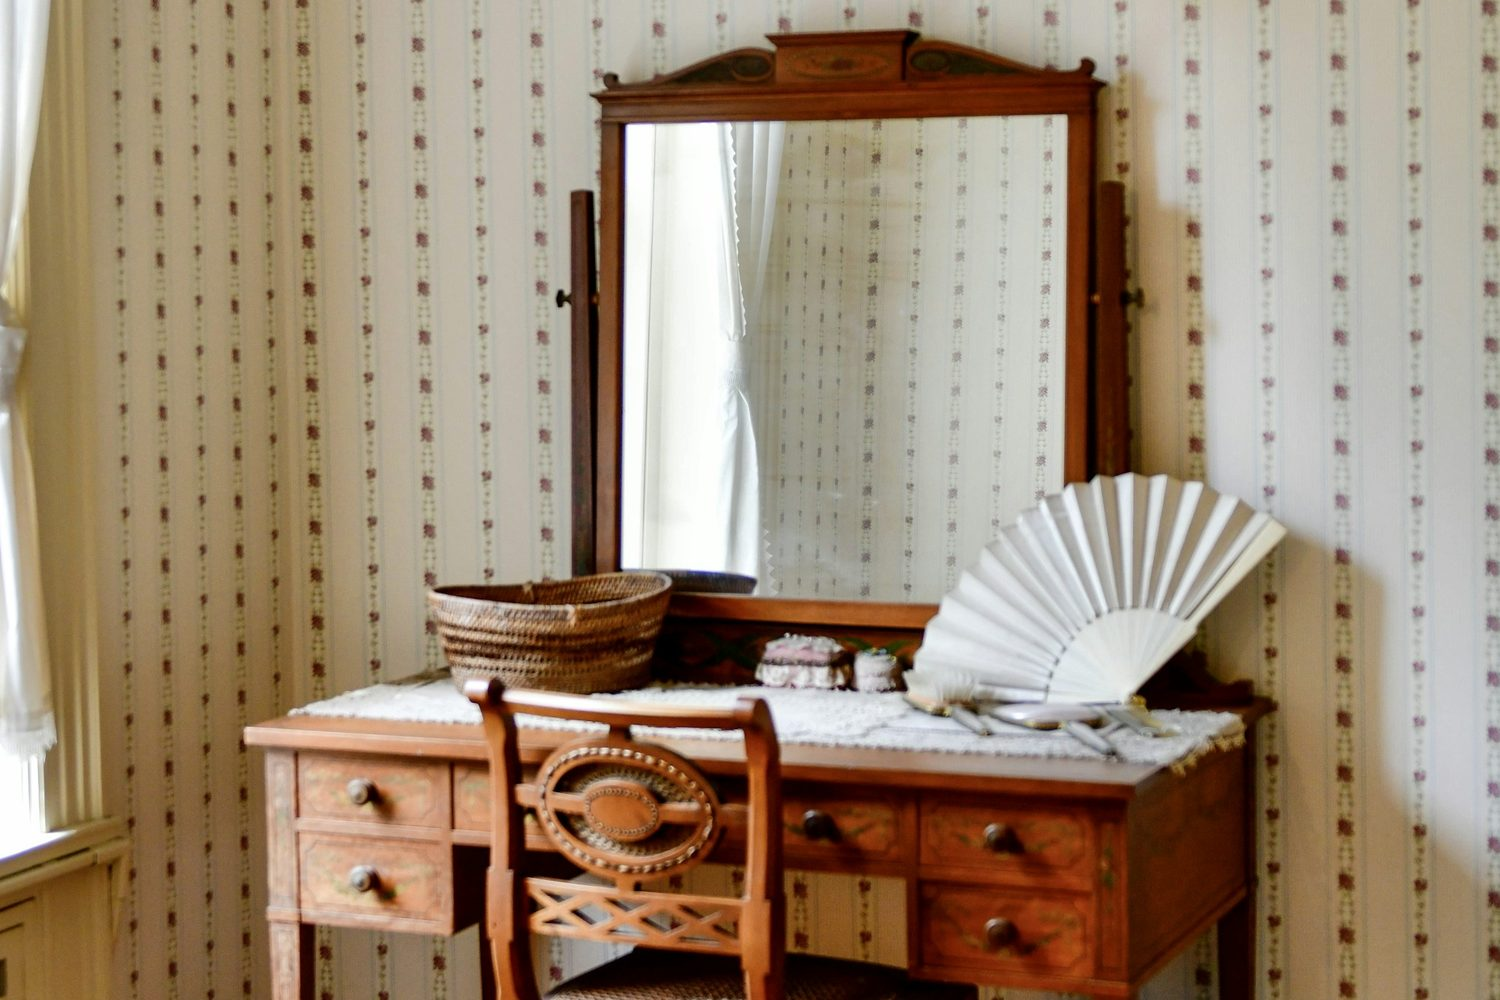
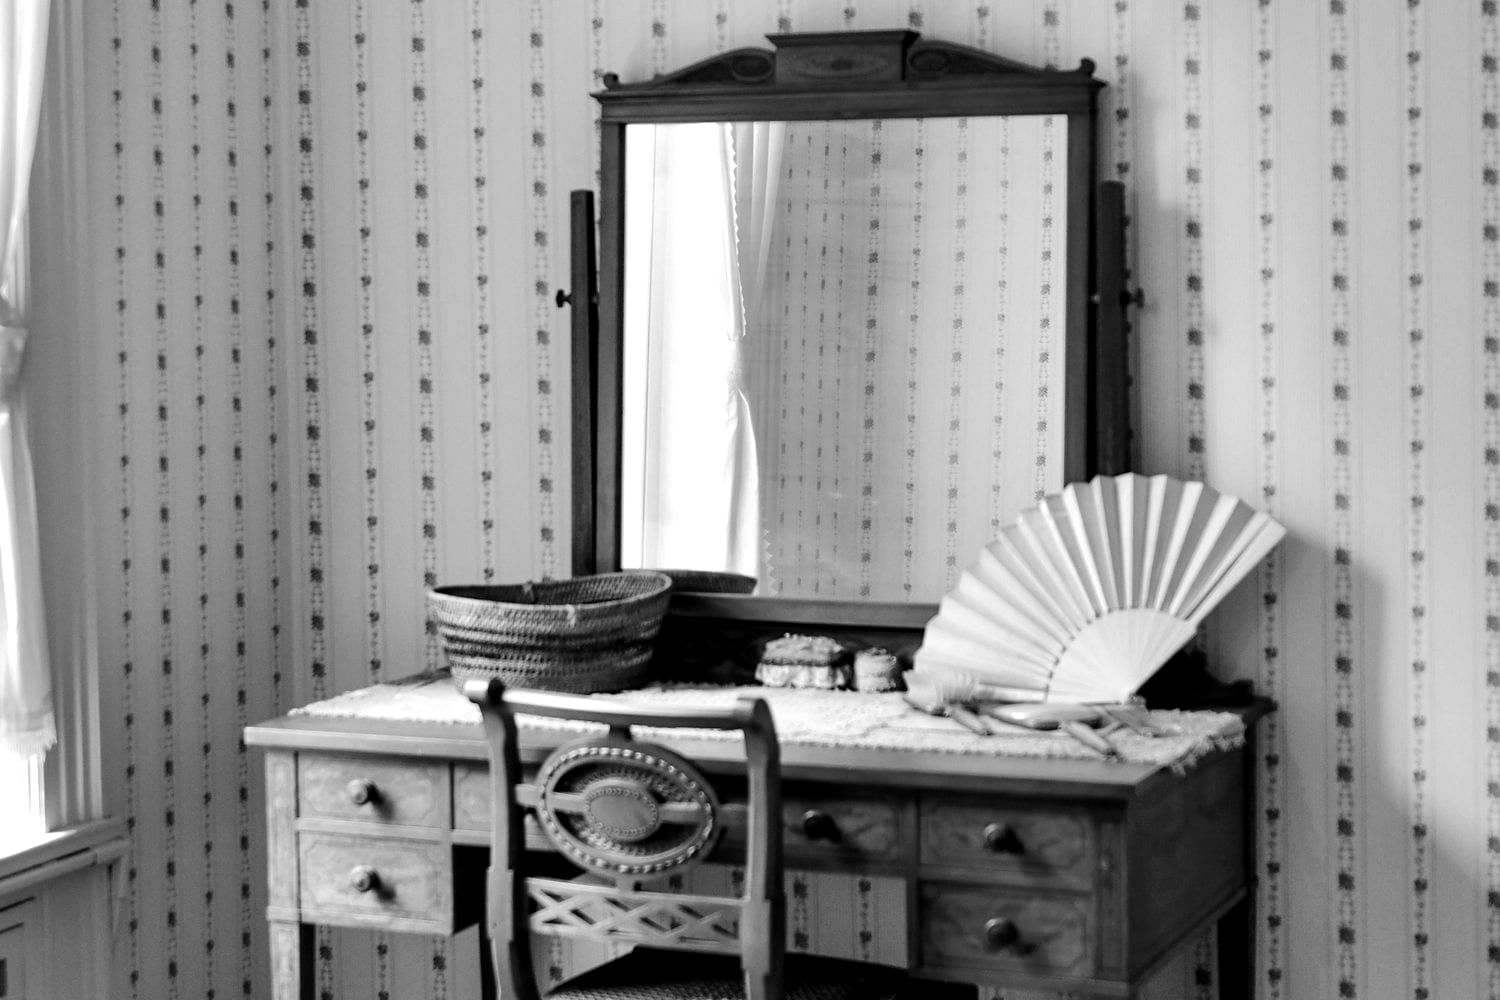
Four more flattering photos; faster-loading images
Photos: Custom Facials (soft-lit profile), Waxing (bare-shoulder glance),
Chemical Peels (clear-skin portrait), contact sheet frame 5 (hand to
cheek) replace the hand-on-cheek, wax spoon, gloved-hands and sculpted
waves shots.

Speed:
- Photos stored already black and white (single channel) via
  scripts/prepare-photos.mjs; CSS grayscale filter removed. Source
  photos 2.5 MB -> 1.8 MB
- Blurred 16px previews inline for every photo so something shows
  instantly on slow connections
- next/image serves AVIF first (WebP fallback), adds a 1600w step,
  caches optimized copies for a year
- Cover photo no longer fades in from 0; image reveals 0.9s, not 1.4s

diff --git a/src/lib/photo-blur.ts b/src/lib/photo-blur.ts
@@ -1,0 +1,16 @@
+// Generated by scripts/prepare-photos.mjs. Do not edit by hand.
+export const photoBlur: Record<string, string> = {
[13 lines of base64/hex data omitted]
+};

diff --git a/src/site.config.ts b/src/site.config.ts
@@ -193,8 +193,8 @@ export const services: Service[] = [
     setting: "unconfirmed",
     menu: priceRows("FACIAL"),
     image: {
-      src: "/photos/facials-glow-portrait.jpg",
-      alt: "Black and white portrait of a woman with luminous skin, resting her cheek on her hand",
+      src: "/photos/facials-luminous-profile.jpg",
+      alt: "Soft-lit black and white profile of a woman with luminous skin and loose curls",
       width: 1200,
       height: 1500,
       aspect: "4 / 5",
@@ -238,8 +238,8 @@ export const services: Service[] = [
     setting: "unconfirmed",
     menu: priceRows("WAXING"),
     image: {
-      src: "/photos/waxing-warm-wax.jpg",
-      alt: "A ribbon of warm golden wax falling from an applicator",
+      src: "/photos/waxing-bare-shoulder.jpg",
+      alt: "Woman with soft curls glancing over a smooth bare shoulder, painted studio backdrop",
       width: 1200,
       height: 1500,
       aspect: "4 / 5",
@@ -373,8 +373,8 @@ export const services: Service[] = [
     setting: "unconfirmed",
     menu: priceRows("PEEL"),
     image: {
-      src: "/photos/chemical-peel-application.jpg",
-      alt: "Gloved esthetician brushing a treatment onto a client's face as she rests on a treatment bed",
+      src: "/photos/chemical-peel-fresh-skin.jpg",
+      alt: "Black and white portrait of a woman with clear, even skin and soft curls",
       width: 1200,
       height: 1500,
       aspect: "4 / 5",
@@ -446,8 +446,8 @@ export const images = {
       aspect: "1 / 1",
     },
     {
-      src: "/photos/gallery-sculpted-waves.jpg",
-      alt: "Studio portrait of a woman with soft waves, lit from one side",
+      src: "/photos/gallery-hand-to-cheek.jpg",
+      alt: "Classic glamour portrait of a woman resting her fingertips on her cheek",
       width: 1000,
       height: 1000,
       aspect: "1 / 1",

diff --git a/src/components/editorial/Cover.tsx b/src/components/editorial/Cover.tsx
@@ -4,6 +4,7 @@ import Image from "next/image";
 import { motion, useReducedMotion } from "framer-motion";
 import logo from "../../../public/brand/logo-pink.png";
 import { business, images } from "@/site.config";
+import { blurProps } from "@/lib/blur";
 import { BookButton } from "../BookButton";
 
 const ease = [0.22, 1, 0.36, 1] as const;
@@ -48,9 +49,9 @@ export function Cover() {
         <div className="relative order-1 h-[44svh] min-h-[330px] lg:absolute lg:inset-y-0 lg:right-0 lg:order-2 lg:h-auto lg:w-[48%]">
           <motion.div
             className="bw grain absolute inset-0 overflow-hidden"
-            initial={{ opacity: 0 }}
+            initial={{ opacity: 0.6 }}
             animate={{ opacity: 1 }}
-            transition={t(0, 1.4)}
+            transition={t(0, 0.6)}
           >
             <motion.div className="absolute inset-0" initial={{ scale: 1.1 }} animate={{ scale: 1 }} transition={t(0, 2.6)}>
               <Image
@@ -58,6 +59,7 @@ export function Cover() {
                 alt={images.cover.alt}
                 fill
                 priority
+                {...blurProps(images.cover.src)}
                 sizes="(min-width: 1024px) 48vw, 100vw"
                 className="object-cover object-[50%_22%]"
               />

diff --git a/src/components/editorial/Opener.tsx b/src/components/editorial/Opener.tsx
@@ -3,6 +3,7 @@ import Link from "next/link";
 import type { ReactNode } from "react";
 import type { ImageSlot } from "@/site.config";
 import { Reveal } from "../motion";
+import { blurProps } from "@/lib/blur";
 
 /**
  * Inner-page opener: a smaller cousin of the homepage cover. Black page,
@@ -35,7 +36,7 @@ export function Opener({
       {photo ? (
         <div className="relative h-[42svh] min-h-[300px] lg:absolute lg:inset-y-0 lg:right-0 lg:h-auto lg:w-[44%]">
           <div className="bw grain absolute inset-0 overflow-hidden">
-            <Image src={photo.src} alt={photo.alt} fill priority sizes="(min-width: 1024px) 44vw, 100vw" className="object-cover" />
+            <Image src={photo.src} alt={photo.alt} fill priority sizes="(min-width: 1024px) 44vw, 100vw" {...blurProps(photo.src)} className="object-cover" />
           </div>
           <div aria-hidden className="absolute inset-0 bg-gradient-to-t from-ink via-ink/10 to-ink/50 lg:bg-gradient-to-r lg:from-ink lg:via-ink/5 lg:to-transparent" />
           <div aria-hidden className="absolute inset-x-0 top-0 h-40 bg-gradient-to-b from-ink/85 to-transparent" />

diff --git a/src/components/editorial/ContactSheet.tsx b/src/components/editorial/ContactSheet.tsx
@@ -3,6 +3,7 @@
 import Image from "next/image";
 import { motion, useReducedMotion } from "framer-motion";
 import { images } from "@/site.config";
+import { blurProps } from "@/lib/blur";
 import { Reveal } from "../motion";
 
 /** A row of sprocket holes along the film edge. */
@@ -51,7 +52,7 @@ export function ContactSheet() {
                       {String(i + 1).padStart(2, "0")}
                     </p>
                     <div className="bw grain relative aspect-square overflow-hidden">
-                      <Image src={f.src} alt={f.alt} fill sizes="(min-width: 768px) 20vw, 160px" className="object-cover" />
+                      <Image src={f.src} alt={f.alt} fill sizes="(min-width: 768px) 20vw, 160px" {...blurProps(f.src)} className="object-cover" />
                     </div>
                     {i === 0 ? (
                       <svg

diff --git a/src/components/motion.tsx b/src/components/motion.tsx
@@ -49,7 +49,7 @@ export function Fade({ children, className, delay = 0 }: Omit<RevealProps, "y" |
       initial={{ opacity: 0 }}
       whileInView={{ opacity: 1 }}
       viewport={viewport}
-      transition={{ duration: 1.2, ease, delay }}
+      transition={{ duration: 0.7, ease, delay }}
     >
       {children}
     </motion.div>
@@ -82,7 +82,7 @@ export function Curtain({ children, className, delay = 0 }: Omit<RevealProps, "y
         className="h-full"
         variants={{
           hidden: { clipPath: "inset(0% 50% 0% 50%)", opacity: 0.4 },
-          show: { clipPath: "inset(0% 0% 0% 0%)", opacity: 1, transition: { duration: 1.4, ease, delay } },
+          show: { clipPath: "inset(0% 0% 0% 0%)", opacity: 1, transition: { duration: 0.9, ease, delay } },
         }}
       >
         {children}

diff --git a/next.config.ts b/next.config.ts
@@ -2,6 +2,13 @@ import type { NextConfig } from "next";
 
 const nextConfig: NextConfig = {
   cacheComponents: true,
+  images: {
+    // AVIF is roughly 20-30% smaller than WebP for these photos; WebP stays as fallback.
+    formats: ["image/avif", "image/webp"],
+    deviceSizes: [640, 750, 828, 1080, 1200, 1600, 1920],
+    // Photos only change when the file name changes, so cache optimized copies for a year.
+    minimumCacheTTL: 31536000,
+  },
   // The editorial design was previewed at /option-2 before it became the site.
   async redirects() {
     return [{ source: "/option-2", destination: "/", permanent: true }];

diff --git a/src/app/globals.css b/src/app/globals.css
@@ -135,10 +135,9 @@ p {
 
 /* ---------- Photography ---------- */
 
-/* Studio-portrait treatment: every photo prints black and white. */
-.bw img {
-  filter: grayscale(1) contrast(1.08) brightness(1.02);
-}
+/* Studio-portrait treatment: every photo prints black and white. The files in
+   /public/photos are stored already converted (scripts/prepare-photos.mjs),
+   so no CSS filter is needed. `.bw` stays as a marker on photo frames. */
 
 /* Fine film grain over photos, drawn with SVG noise. Only position elements
    that aren't already absolute (the cover photo is). */

diff --git a/src/components/ImageSlot.tsx b/src/components/ImageSlot.tsx
@@ -1,5 +1,6 @@
 import Image from "next/image";
 import type { ImageSlot as Slot } from "@/site.config";
+import { blurProps } from "@/lib/blur";
 
 /**
  * Every image on the site goes through here. The box reserves the slot's
@@ -24,6 +25,7 @@ export function ImageSlot({
         fill
         sizes={sizes}
         priority={priority}
+        {...blurProps(slot.src)}
         className="object-cover"
       />
     </div>

diff --git a/src/lib/blur.ts b/src/lib/blur.ts
@@ -1,0 +1,7 @@
+import { photoBlur } from "./photo-blur";
+
+/** next/image placeholder props for a photo: a tiny blurred preview while the real one loads. */
+export function blurProps(src: string): { placeholder?: "blur"; blurDataURL?: string } {
+  const data = photoBlur[src];
+  return data ? { placeholder: "blur", blurDataURL: data } : {};
+}

diff --git a/public/photos/SOURCES.md b/public/photos/SOURCES.md
@@ -1,6 +1,6 @@
 # Photo sources
 
-All photos are from Unsplash (free under the Unsplash License, no attribution required), chosen for a 1940s and 50s studio-glamour look and printed black and white on the site. Each was cropped to its slot's aspect ratio. Original page: `https://unsplash.com/photos/<id>`.
+All photos are from Unsplash (free under the Unsplash License, no attribution required), chosen for a 1940s and 50s studio-glamour look. Files are stored already converted to black and white (smaller, no CSS filter needed); run `node scripts/prepare-photos.mjs` after adding or replacing one. Each was cropped to its slot's aspect ratio. Original page: `https://unsplash.com/photos/<id>`.
 
 | File | Unsplash photo id |
 | --- | --- |
@@ -9,11 +9,11 @@ All photos are from Unsplash (free under the Unsplash License, no attribution re
 | gallery-wide-brim-hat.jpg | 1495462911434-be47104d70fa |
 | gallery-polka-dot.jpg | 1653688257587-004cb9193bd4 |
 | gallery-off-shoulder-gown.jpg | 1626818590179-66ae6d62b8cf |
-| gallery-sculpted-waves.jpg | 1642290687545-8ab7e6002472 |
-| facials-glow-portrait.jpg | 1611831308092-a7cdafdd34fc |
+| gallery-hand-to-cheek.jpg | 1603775020644-eb8decd79994 |
+| facials-luminous-profile.jpg | 1440589473619-3cde28941638 |
 | tinting-brow-close-up.jpg | 1685702673311-e7c4ce28e561 |
-| waxing-warm-wax.jpg | 1696192410531-dc179772a0e8 (cropped above the branded jar) |
+| waxing-bare-shoulder.jpg | 1668191174028-75d894fab7ee |
 | lash-lift-curled-lashes.jpg | 1548902378-2ec44c906391 |
-| chemical-peel-application.jpg | 1611169035510-f9af52e6dbe2 |
+| chemical-peel-fresh-skin.jpg | 1658336842029-b24b44a1e75f |
 | come-to-you-vanity.jpg | 1686109831633-d35231b5c623 |
 | studio-still-life.jpg | 1540555700478-4be289fbecef |

diff --git a/README.md b/README.md
@@ -28,6 +28,7 @@ All business details live in `src/site.config.ts`. See **PLACEHOLDERS.md** for t
 - `src/components/editorial/`: the cover, spreads, contact sheet, page opener, header, footer, and the shared service-page template (`ServicePage.tsx`)
 - `src/components/motion.tsx`: scroll reveals. All use `viewport={{ once: false }}` so they reverse on scroll up, and honor reduced motion
 - `scripts/make-placeholders.mjs`: regenerates the owner-portrait placeholder
+- `scripts/prepare-photos.mjs`: run after adding or replacing a photo. Converts it to black and white once and regenerates the blurred loading previews in `src/lib/photo-blur.ts`
 
 ## Design system
 
